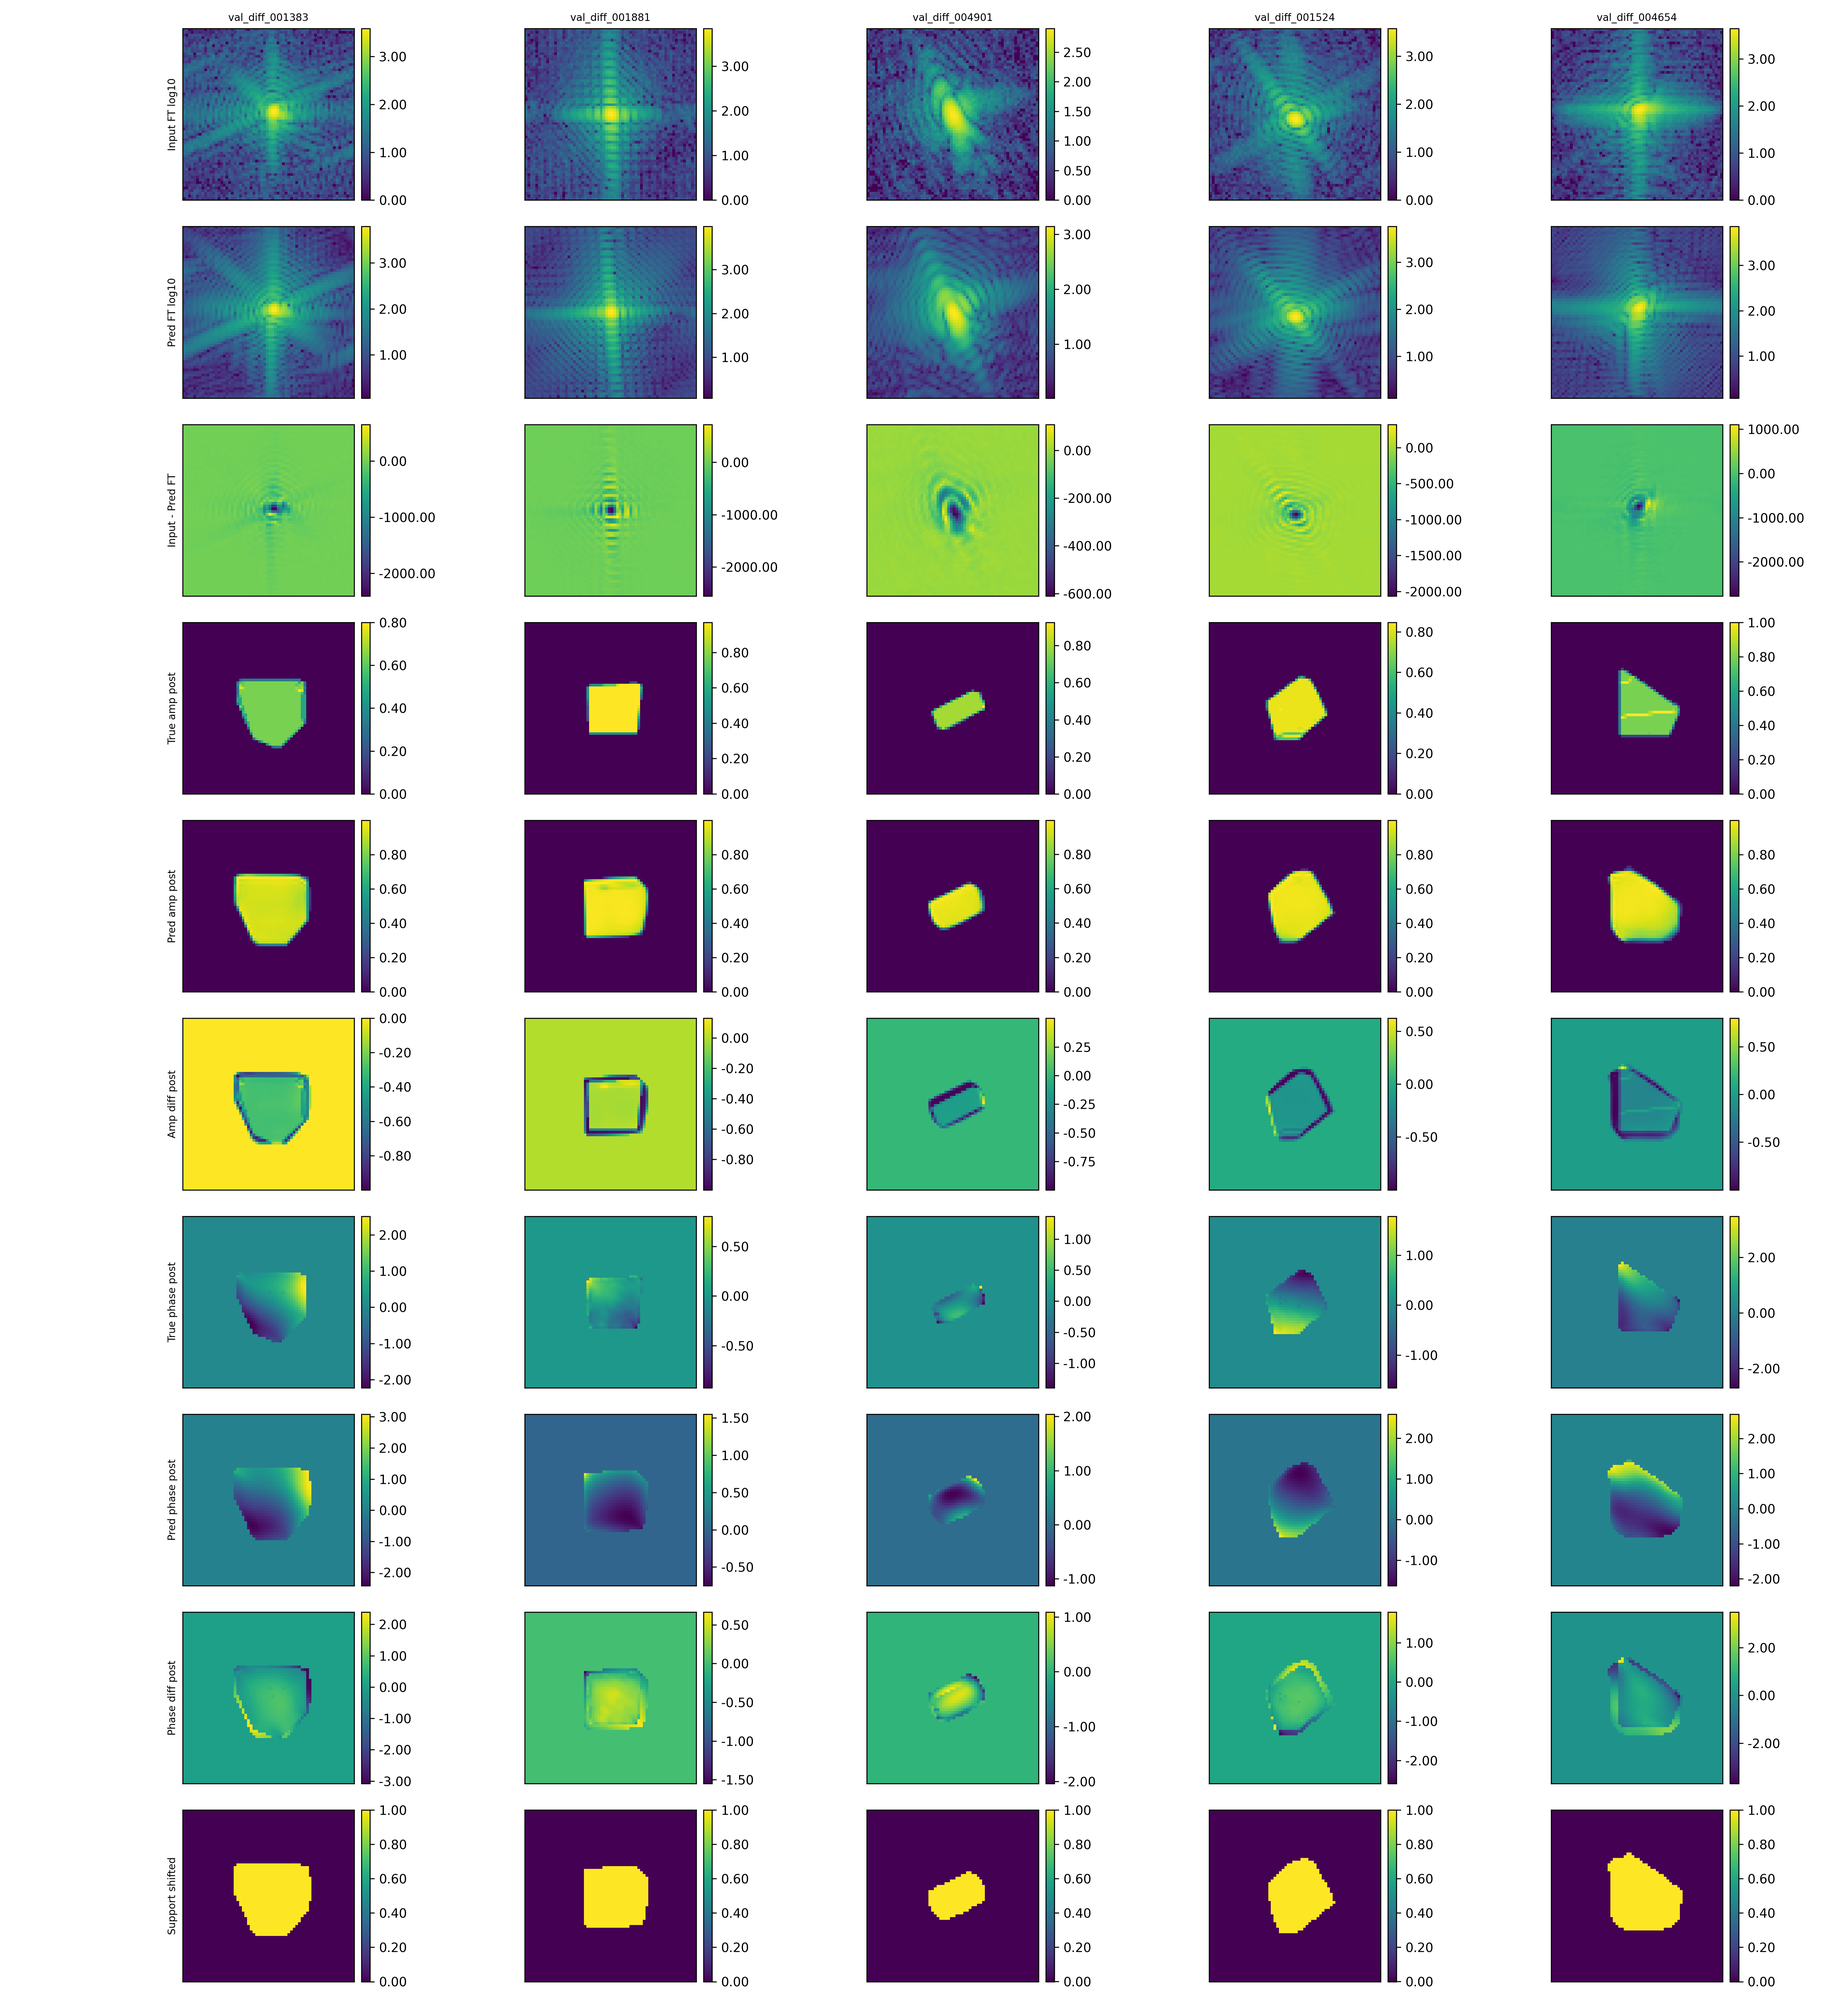
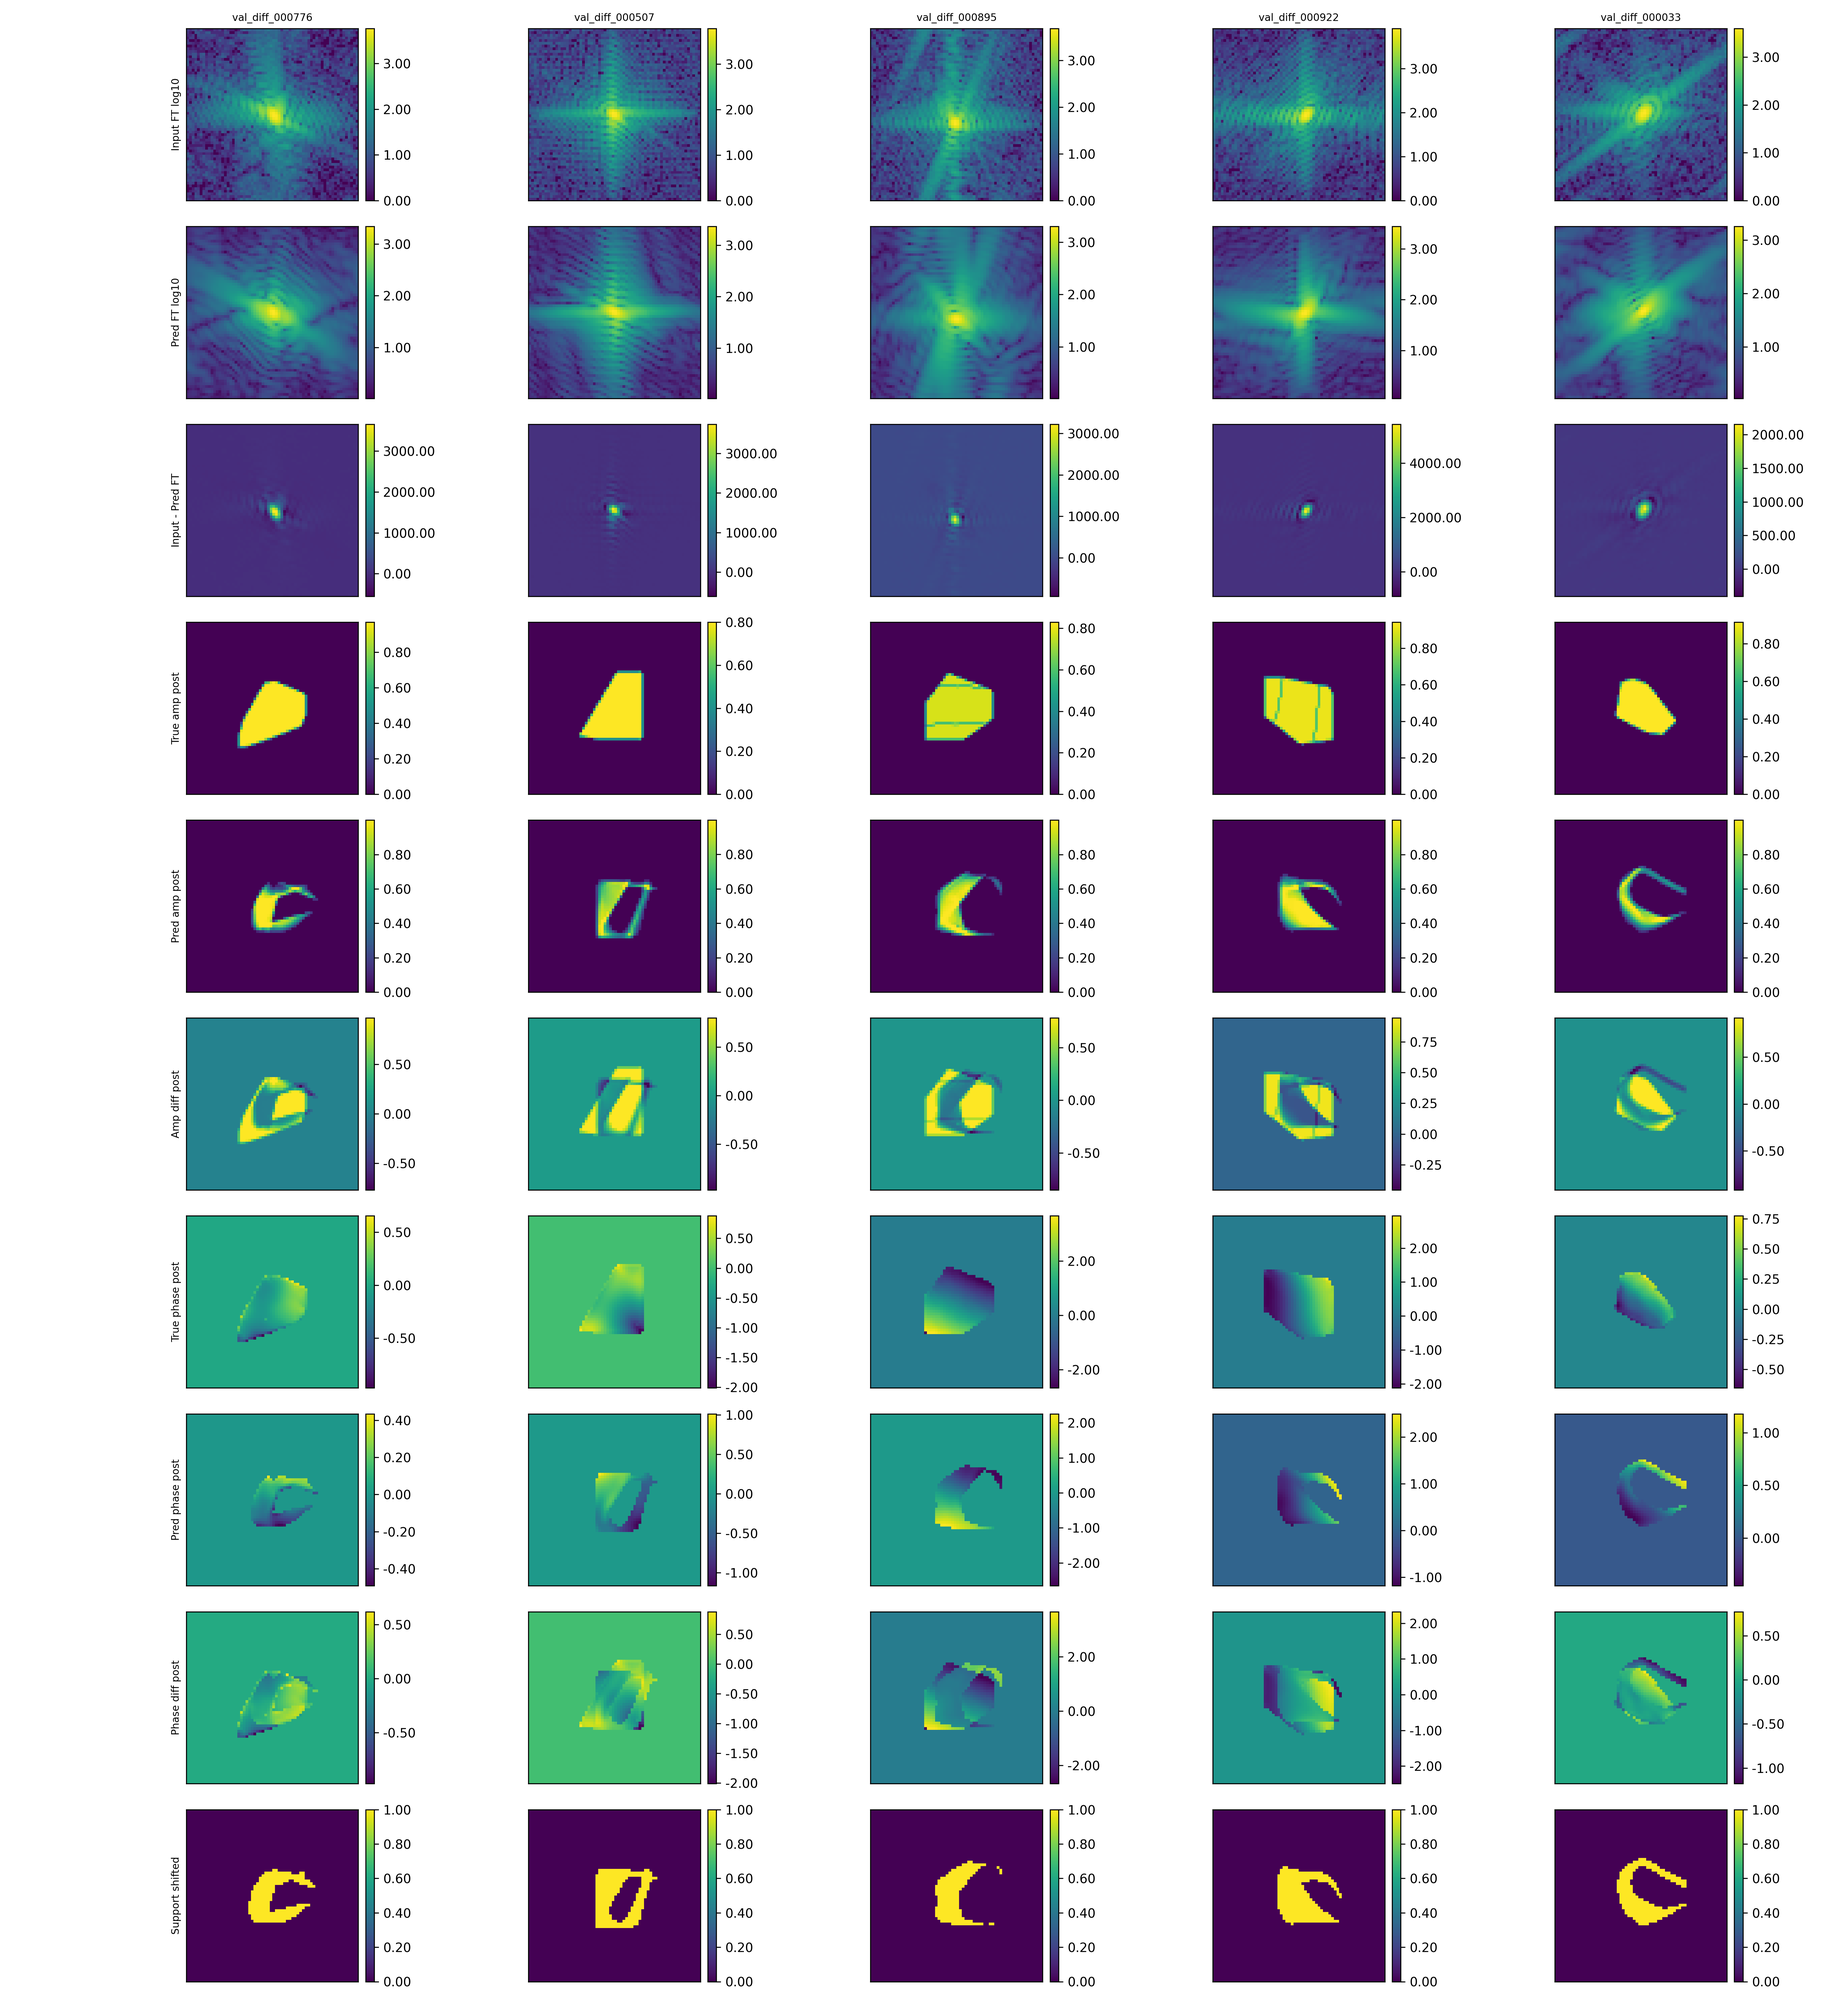
result

diff --git a/autophasenn_training_pipeline/visualize_postprocessed.py b/autophasenn_training_pipeline/visualize_postprocessed.py
@@ -106,7 +106,7 @@ def plot_rows(rows, names, output_png):
 @torch.no_grad()
 def main():
     parser = argparse.ArgumentParser(description="TF test-style PyTorch visualization.")
-    parser.add_argument("--checkpoint", default="/data_ssd/oyys/autophasenn/autophasenn.pth")
+    parser.add_argument("--checkpoint", default="./autophasenn_training_pipeline/output/autophasenn_overfit1000_l1_20260601_200600/checkpoint_best.pt")
     parser.add_argument("--data-dir", default="/data_ssd/oyys/autophasenn/")
     parser.add_argument("--data-diff", default="val_diff.npy")
     parser.add_argument("--data-real", default="val_real.npy")
@@ -118,7 +118,7 @@ def main():
     parser.add_argument(
         "--overfit-samples",
         type=int,
-        default=0,
+        default=1000,
         help="Restrict the visualization pool to the same first N samples used by train.py --overfit-samples.",
     )
     parser.add_argument("--num-samples", type=int, default=5)
